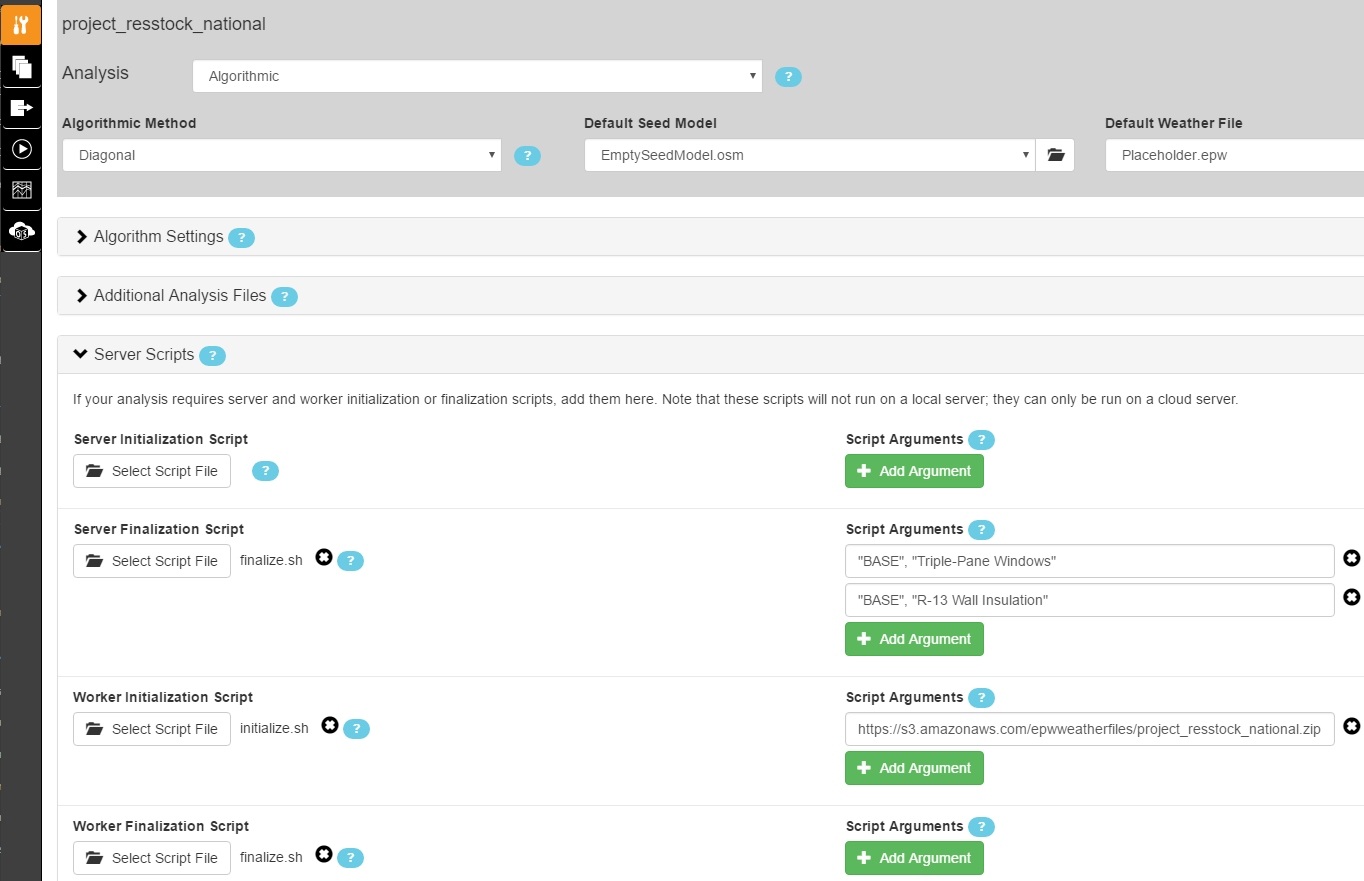
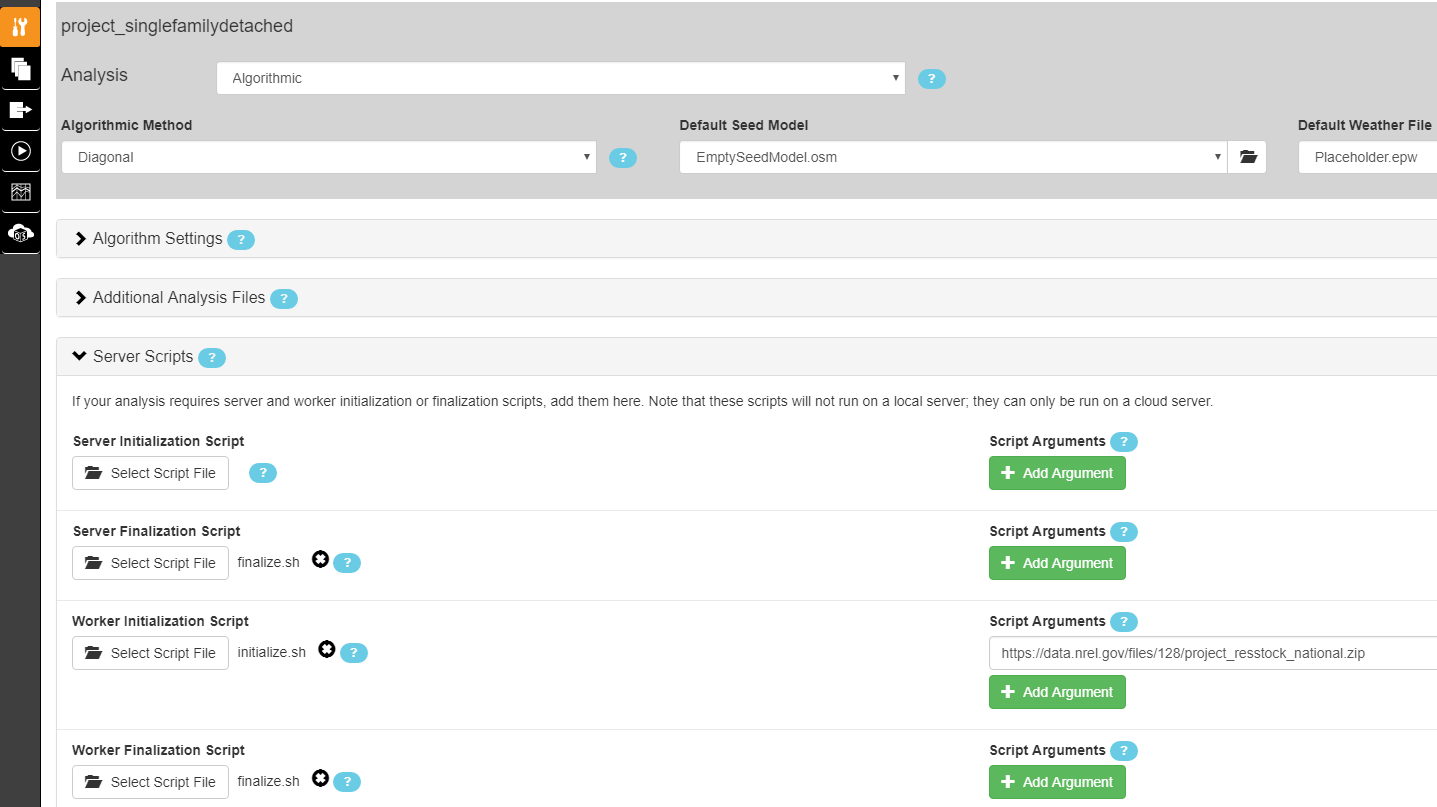
Updates to readthedocs.

diff --git a/docs/read_the_docs/source/tutorial/setup_analysis_project.rst b/docs/read_the_docs/source/tutorial/setup_analysis_project.rst
@@ -87,22 +87,22 @@ Worker Initialization Script
    
 Something you might want to change is the set of weather files used with your project. To update the argument for the path to the zip file containing epw weather files, open the Server Scripts box on the Measures Selection tab.
 
-Look for the **Script Arguments** box corresponding to the **Worker Initialization Script**. By default, this argument value points to the set of weather files corresponding to the specific project (i.e., set of ``housing_characteristics``) you are working with. For example, the ``project_singlefamilydetached`` project folder will by default use the set of weather files with national geographic coverage. In the illustration above, the argument value path points to a zipped file stored in the `epwweatherfiles bucket`_ on Amazon S3. You should have read-only access to objects in this bucket.
+Look for the **Script Arguments** box corresponding to the **Worker Initialization Script**. By default, this argument value points to the set of weather files corresponding to the specific project (i.e., set of ``housing_characteristics``) you are working with. For example, the ``project_singlefamilydetached`` project folder will by default use the set of weather files with national geographic coverage. In the illustration above, the argument value path points to a zipped file stored on `datanrelgov`_.
 
-You can control what set of weather files are unpacked and accessible on the remote server by changing the argument value for this initialization script. If you wish to change this argument value to point to a different file in the S3 bucket, replace the path's basename with the path of the new file. If the desired file does not exist in the S3 bucket, you will need to zip up a set of weather files and upload it to some location of your choice (e.g., your own S3 bucket). Be sure to change the entire argument value path to point to this chosen file location.
+You can control what set of weather files are unpacked and accessible on the remote server by changing the argument value for this initialization script. If you wish to change this argument value to point to a different file on data.nrel.gov, replace the path's basename with the path of the new file. If the desired file does not exist at this url, you will need to zip up a set of weather files and upload it to some location of your choice (e.g., your own S3 bucket). Be sure to change the entire argument value path to point to this chosen file location.
 
 To zip and upload new weather files:
 
- - First ensure that the weather files you will be using do not already exist in the S3 bucket. If they do, just point to the appropriate zip that already contains your desired weather files.
+ - First ensure that the weather files you will be using do not already exist at data.nrel.gov. If they do, just point to the appropriate zip that already contains your desired weather files.
  - If they do not, on your local computer highlight all the new epw weather files and compress them into a single zip file. (Your zip should contain only files with either the ".epw" or ".ddy" extension.)
  - Upload your newly zipped file that contains the weather files to your new location.
  - Go back to your project and update the argument value to the path of the newly uploaded file.
 
-.. _epwweatherfiles bucket: https://s3.console.aws.amazon.com/s3/buckets/epwweatherfiles/?region=us-east-1&tab=overview
+.. _datanrelgov: https://data.nrel.gov/submissions/128
 
 .. note::
 
-   Changing this path from the default will most likely require additional changes to your project. Any weather file names in your ``housing_characteristics`` folder's tsv files will need to be updated to reflect those in the S3 bucket file. Any simulation on the remote server that points to an invalid weather file path will fail.
+   Changing this path from the default will most likely require additional changes to your project. Any weather file names in your ``housing_characteristics`` folder's tsv files will need to be updated to reflect those in the weather file. Any simulation on the remote server that points to an invalid weather file path will fail.
  
 .. _worker-finalization-script:
  
